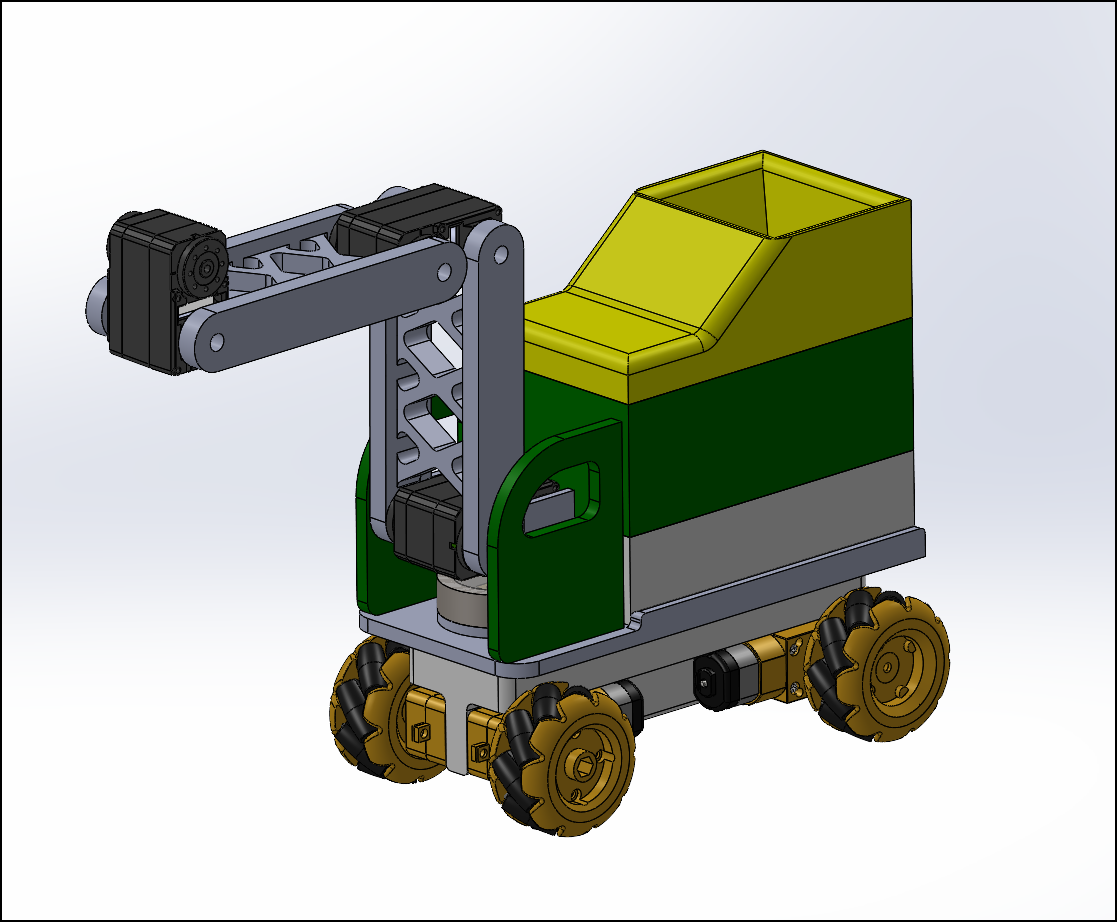
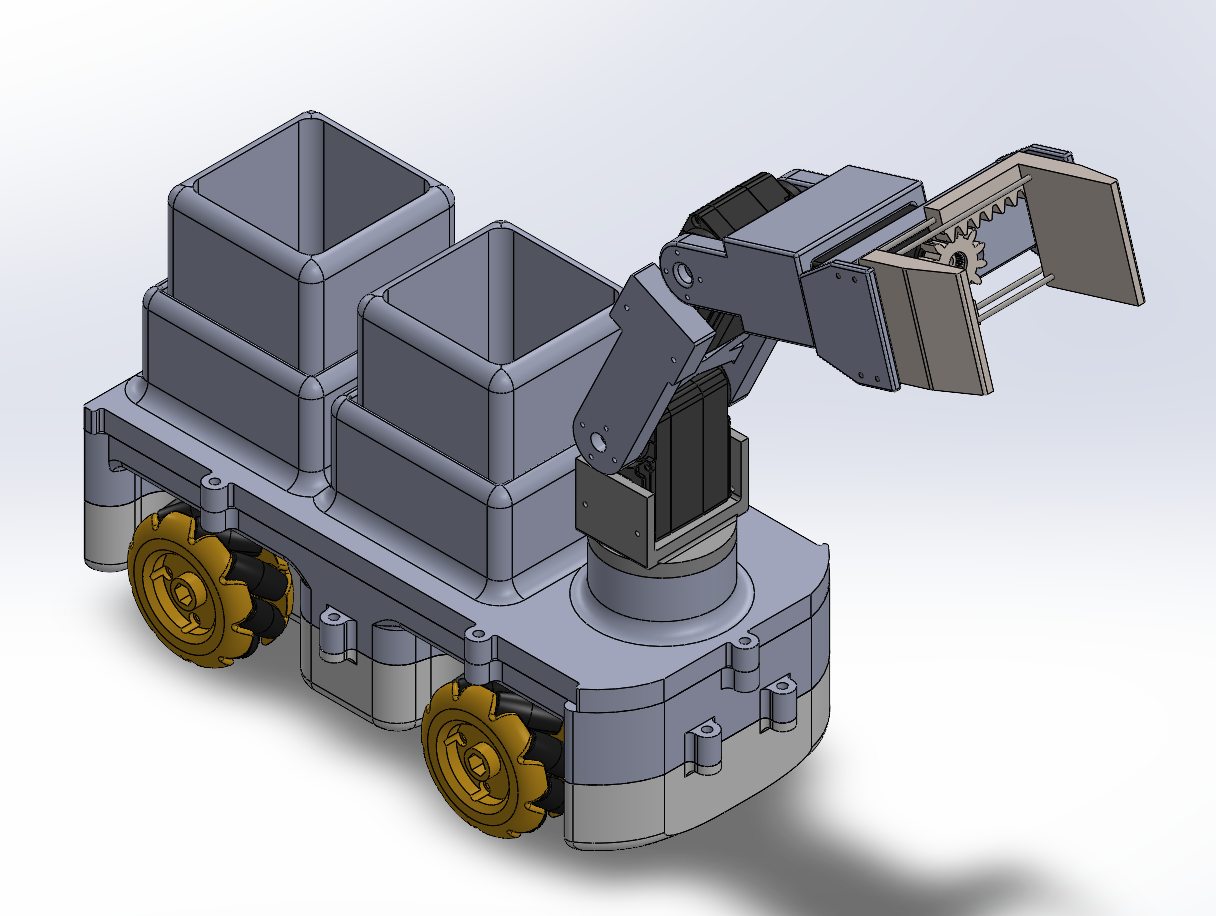
updated asme

diff --git a/index.html b/index.html
@@ -245,8 +245,7 @@
       </div>
 
       <h4>Media</h4>
-      <img src="assets\images\asme_sketch.jpg"
-           alt="ASME waste-collection device concept sketch">
+      <iframe src="https://docs.google.com/presentation/d/e/2PACX-1vQvL8qCO_fYXQO0uiYl7M_kercNYdBNbcVOCFUXfqpyqR2Lmu380byLNxHmYEipLcR-oKXdycIP8A2p/pubembed?start=false&loop=false&delayms=3000" frameborder="0" width="100%" height="420" allowfullscreen="true" mozallowfullscreen="true" webkitallowfullscreen="true"></iframe>
     </div>
   </div>
 
